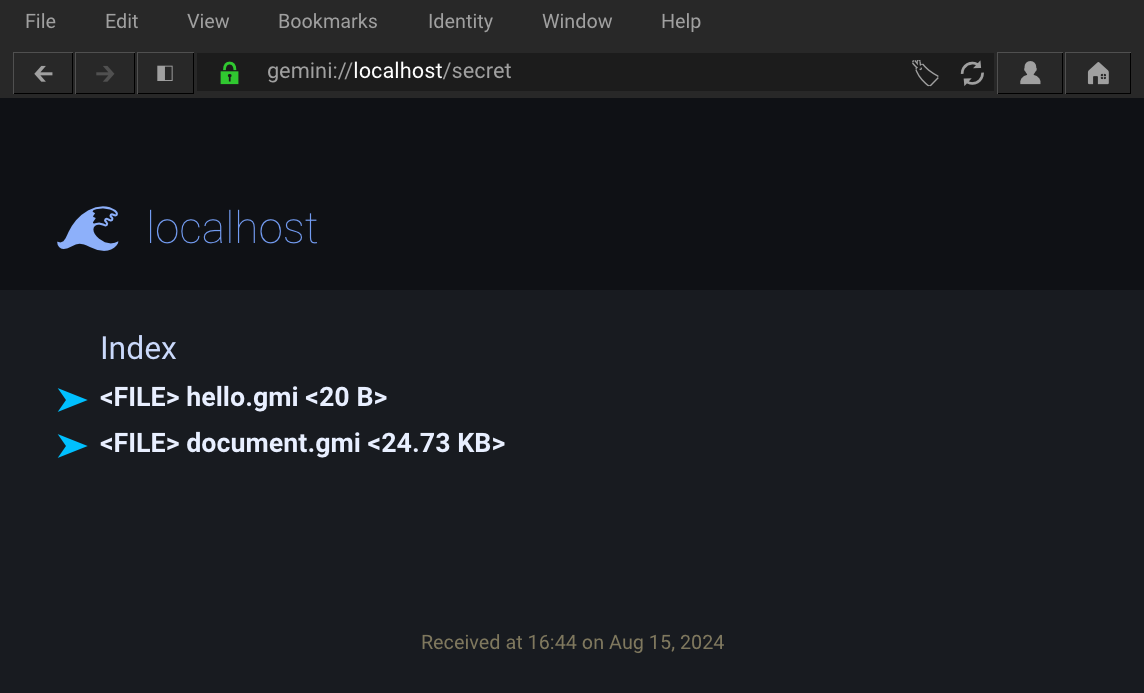
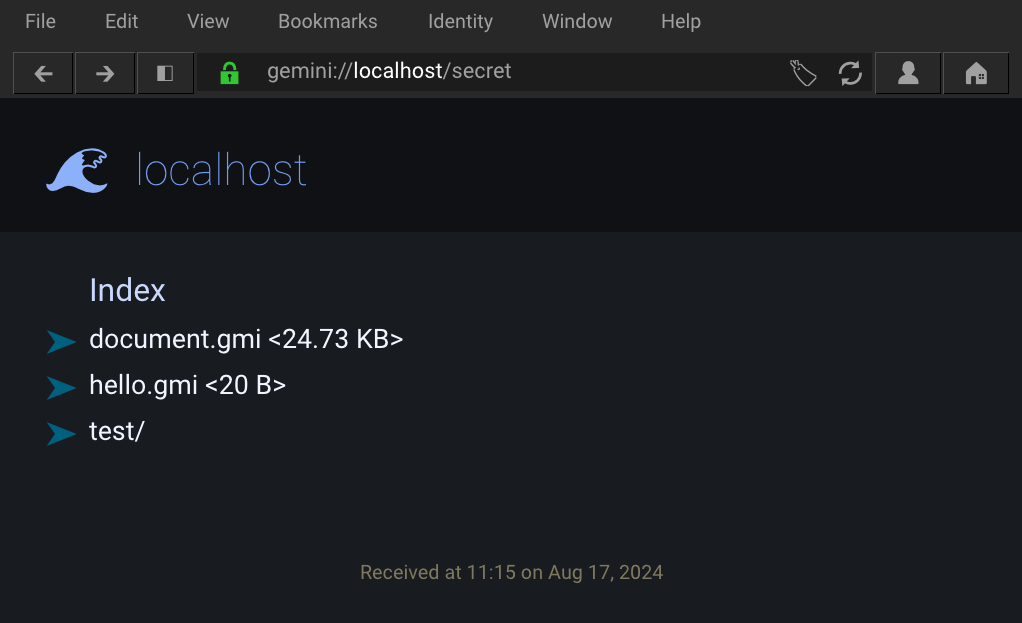
remove <FILE> and <DIR>

diff --git a/response.c b/response.c
@@ -52,17 +52,17 @@ static void iterate_dir(const char *path, SSL *ssl) {
         }
         
         if (files[i]->d_type == DT_DIR) {
-            sprintf(buffer, "=> %s%s/   <DIR> %s/\n", path, files[i]->d_name, files[i]->d_name);
+            sprintf(buffer, "=> %s%s/  %s/\n", path, files[i]->d_name, files[i]->d_name);
         } else {
             /* path ends with "/" */
             sprintf(buffer, "%s%s", path, files[i]->d_name);
             size = filesize(buffer);
             pfs = pretty_filesize(size);
             if (pfs.type) {
-                sprintf(buffer, "=> %s%s   <FILE> %s <%.2f %s>\n",
+                sprintf(buffer, "=> %s%s  %s <%.2f %s>\n",
                     path, files[i]->d_name, files[i]->d_name, (double)pfs.value, pfs.type);
             } else {
-                sprintf(buffer, "=> %s%s   <FILE> %s <%.0f B>\n",
+                sprintf(buffer, "=> %s%s  %s <%.0f B>\n",
                     path, files[i]->d_name, files[i]->d_name, (double)pfs.value);
             }
         }
